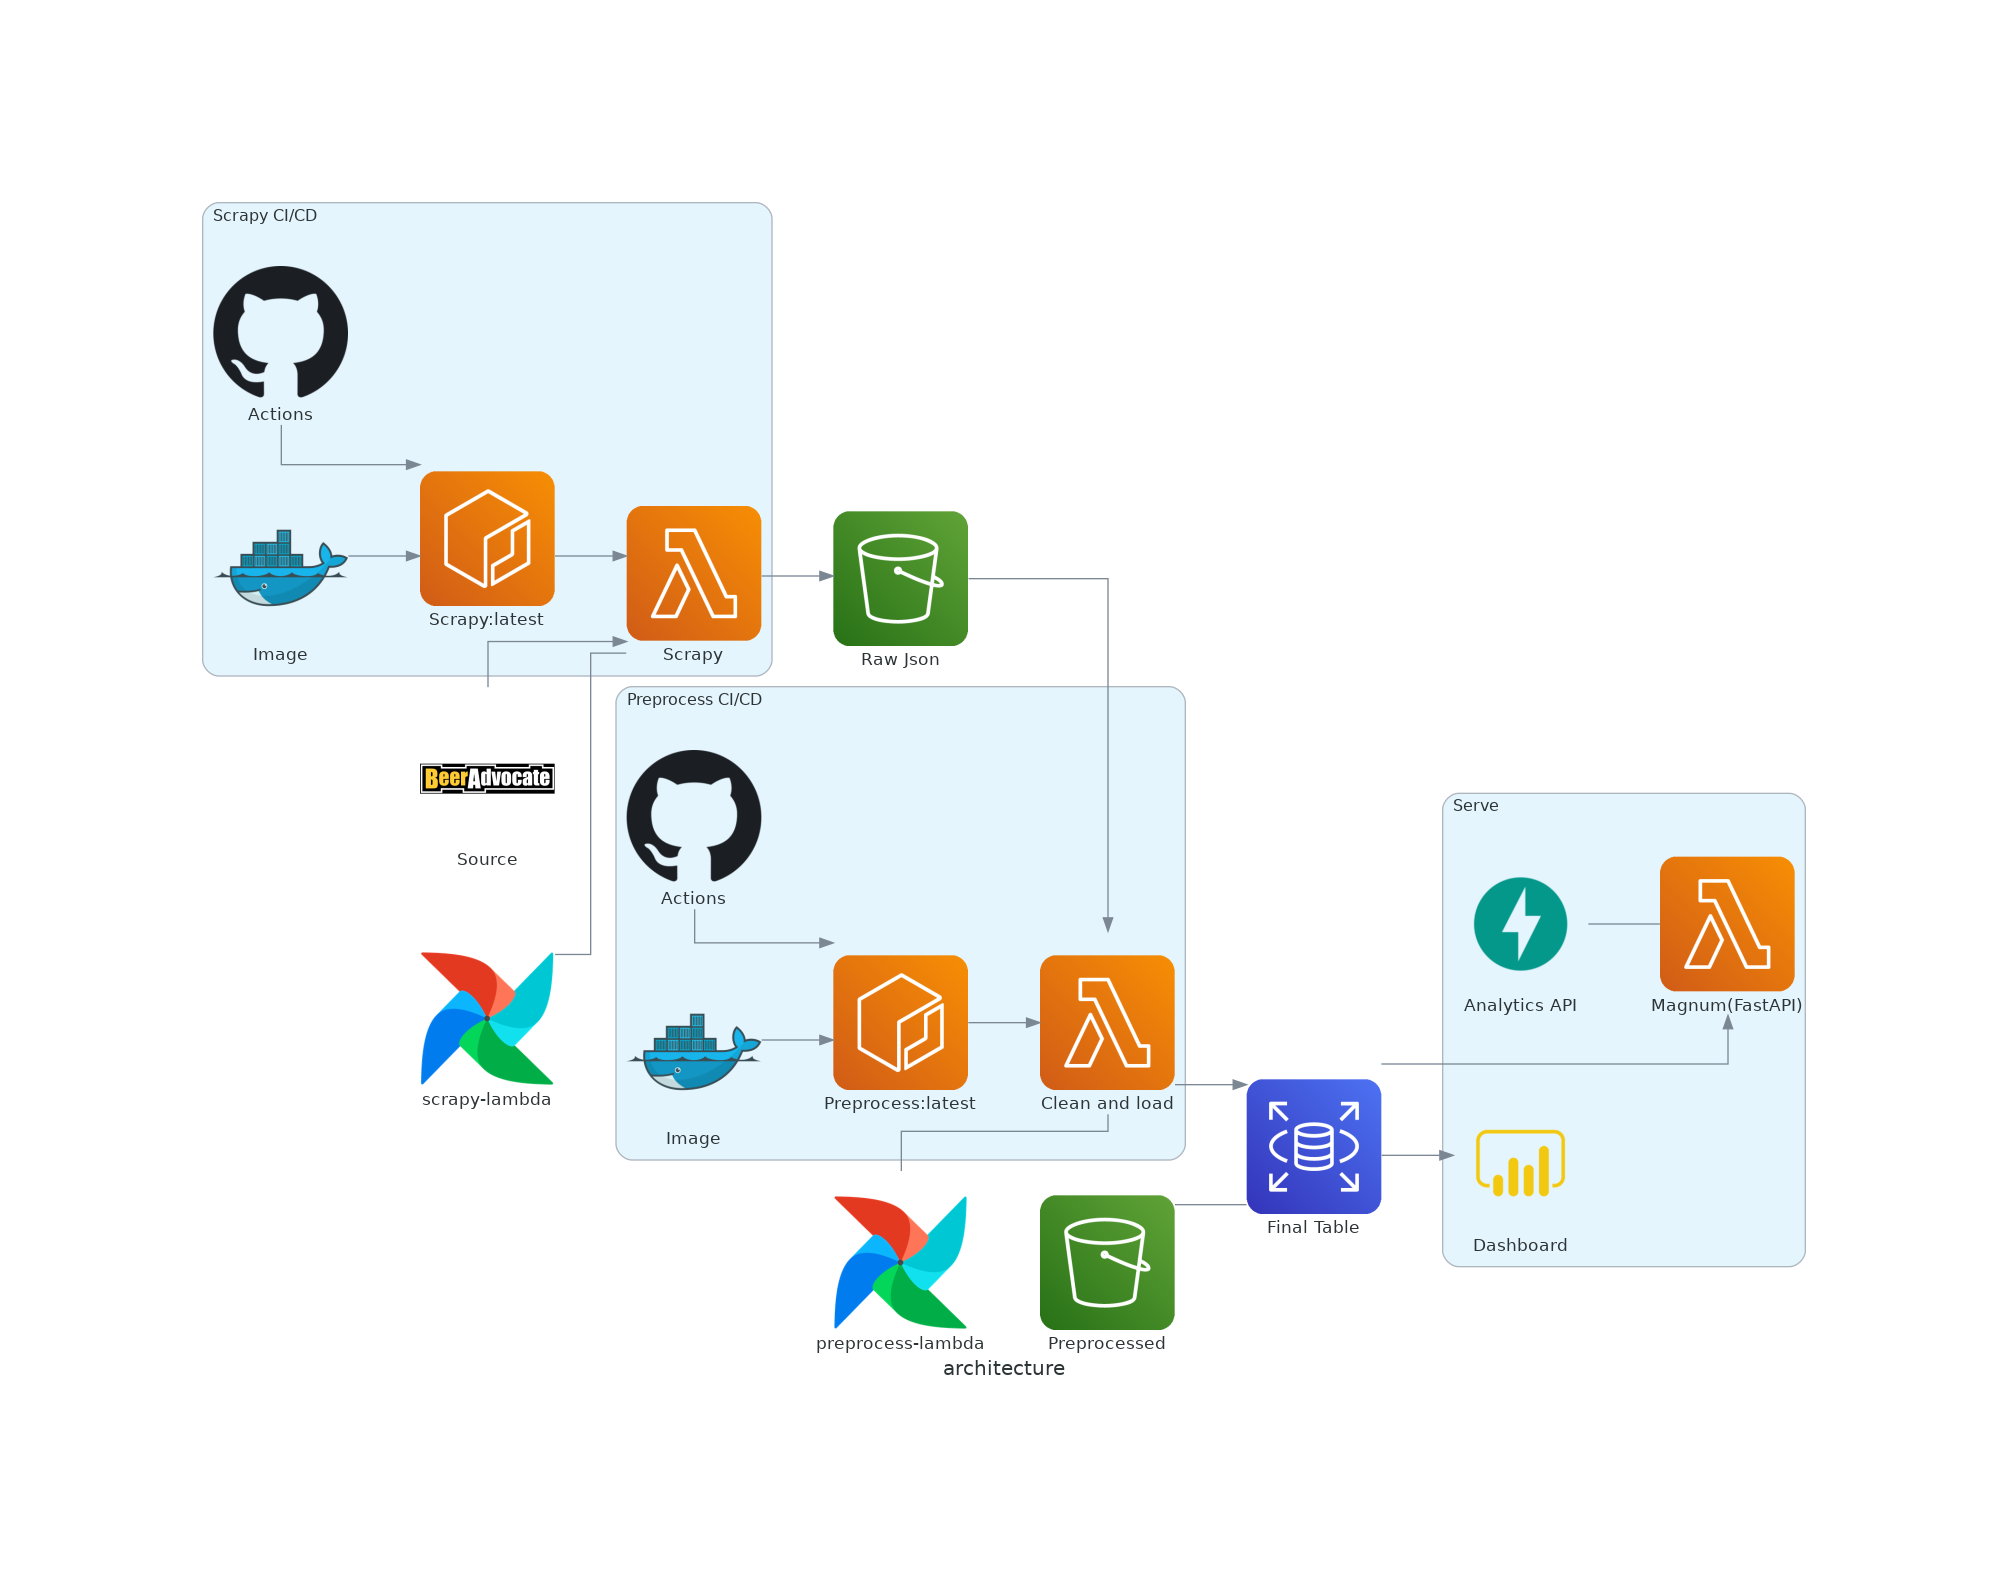
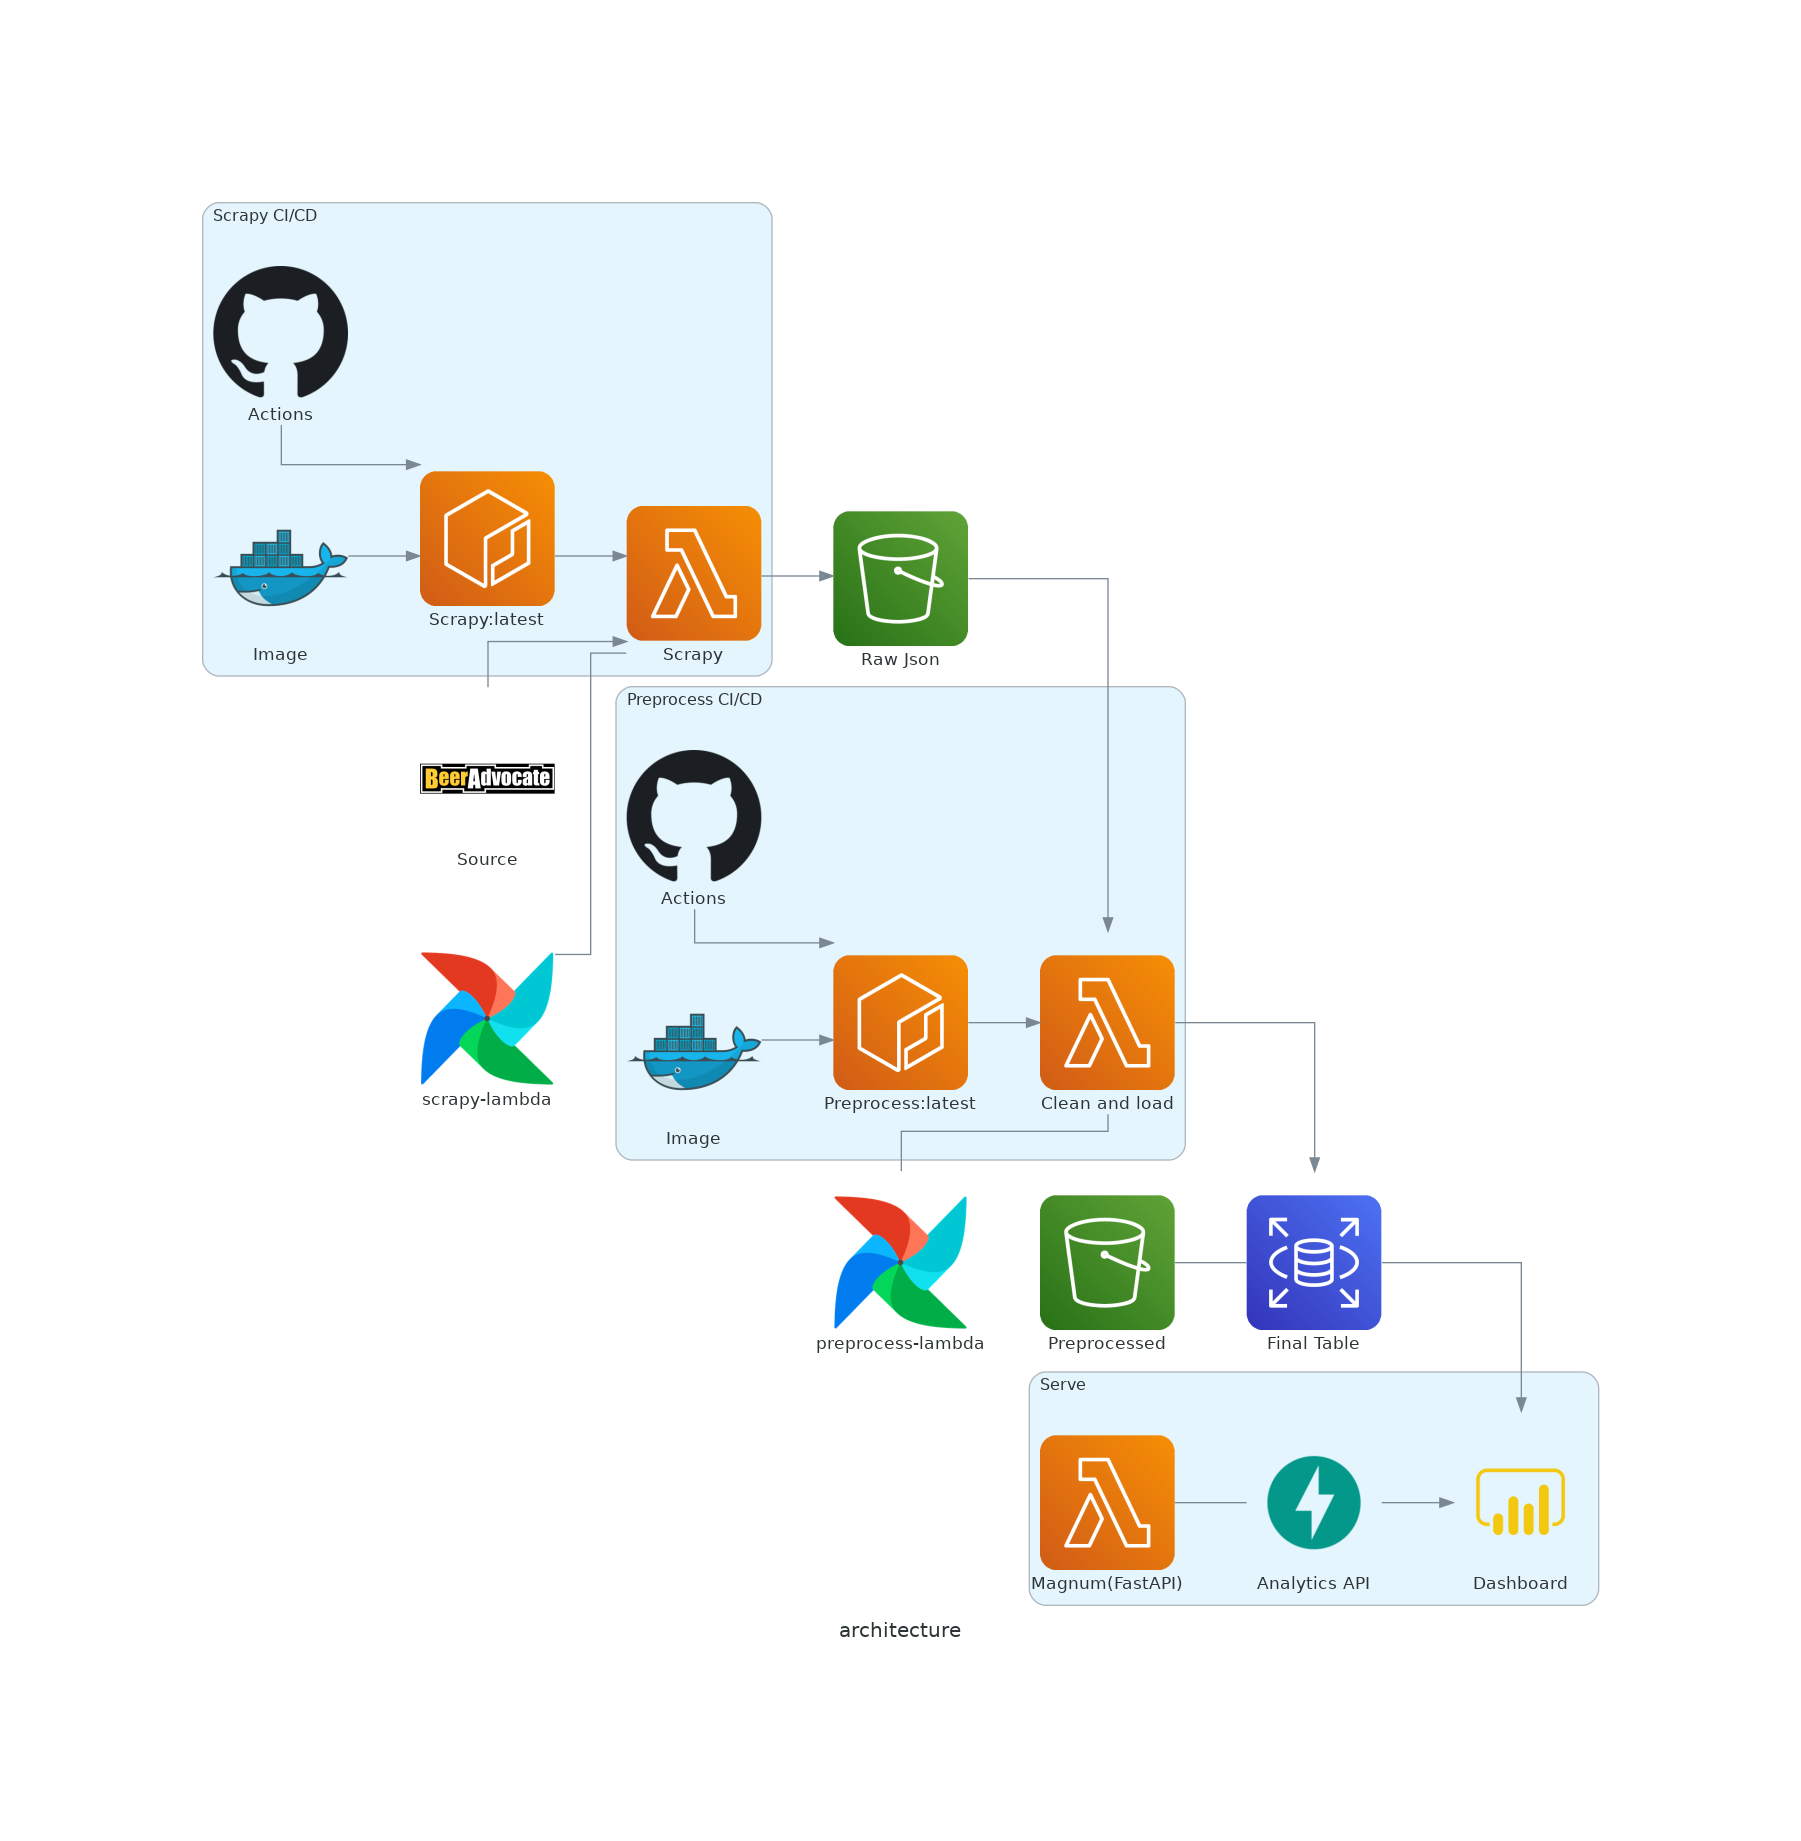
serving with api

Changed region(s): [[0.0933, 0.0931, 0.9017, 0.8999]]

diff --git a/dags/beer-pipeline.py b/dags/beer-pipeline.py
@@ -3,15 +3,18 @@ from airflow.providers.amazon.aws.operators.lambda_function import (
     LambdaInvokeFunctionOperator,
 )
 
+from airflow.providers.common.sql.operators.sql import SQLExecuteQueryOperator
+
 import boto3, json
+import pendulum
 from airflow import DAG
 from airflow.operators.bash_operator import BashOperator
 from datetime import datetime, timedelta
 from airflow.utils.dates import days_ago
 from airflow.operators.python_operator import PythonOperator
 
-
 default_args = {
+    "start_date": pendulum.datetime(2023, 11, 2, tz="UTC"),
     "owner": "jagos",
     "depends_on_past": False,
     "email": ["jagacnoob2@gmail.com"],
@@ -19,24 +22,72 @@ default_args = {
     "email_on_retry": False,
     "retries": 1,
     "retry_delay": timedelta(minutes=5),
+    "schedule_interval": "@daily",
 }
 
 with DAG(
     dag_id="beer-flow",
     default_args=default_args,
-    start_date=days_ago(1),
-    schedule_interval=timedelta(days=1),
 ) as dag:
-    invoke_lambda_function_1 = LambdaInvokeFunctionOperator(
-        task_id="scrapy", function_name="scrapy-lambda", invocation_type="Event"
+    # start scrapy
+    invoke_lambda_function_1: LambdaInvokeFunctionOperator = (
+        LambdaInvokeFunctionOperator(
+            task_id="scrapy", function_name="scrapy-lambda", invocation_type="Event"
+        )
+    )
+    # making sure that the file have time to be uploaded to s3
+    delay_bash_task_1: BashOperator = BashOperator(
+        task_id="delay_bash_task_1", bash_command="sleep 15s"
     )
 
-    invoke_lambda_function_2 = LambdaInvokeFunctionOperator(
-        task_id="process", function_name="preprocess-lambda", invocation_type="Event"
+    delay_bash_task_2: BashOperator = BashOperator(
+        task_id="delay_bash_task_2", bash_command="sleep 15s"
     )
 
-    delay_bash_task: BashOperator = BashOperator(
-        task_id="delay_bash_task", bash_command="sleep 15s"
+    # clean and load
+    invoke_lambda_function_2: LambdaInvokeFunctionOperator = (
+        LambdaInvokeFunctionOperator(
+            task_id="process",
+            function_name="preprocess-lambda",
+            invocation_type="Event",
+        )
     )
 
-    invoke_lambda_function_1 >> delay_bash_task >> invoke_lambda_function_2
+    create_final_table = SQLExecuteQueryOperator(
+        task_id="final_dataset",
+        sql="""create table if not exists final_table as (
+                select t1.last_updated,
+                    t1.beer_name,
+                    t1.brewer_name,
+                    t1.beer_style,
+                    t1.location,
+                    t1.percent_alcohol,
+                    t1.beer_avg_score,
+                    t1.avg_across_all,
+                    t1.beer_number_of_reviews,
+                    t1.number_of_ratings,
+                    t1.date_added,
+                    t1.number_of_wants,
+                    t1.number_of_gots,
+                    t1.status,
+                    t2.brewer_avg_beer_score,
+                    t2.number_of_beers,
+                    t2.avg_brewer_score,
+                    t2.brewer_number_of_reviews,
+                    t2.city,
+                    t2.establishment_type
+
+                    from  beers t1
+                    left join brewers t2
+                        on t1.brewer_name = t2.brewer_name);""",
+        conn_id="postgres_default",
+        autocommit=True,
+    )
+
+    (
+        invoke_lambda_function_1
+        >> delay_bash_task_1
+        >> invoke_lambda_function_2
+        >> delay_bash_task_2
+        >> create_final_table
+    )

diff --git a/preprocess-lambda/preprocess.py b/preprocess-lambda/preprocess.py
@@ -57,6 +57,20 @@ def apply_filter(data: list[dict]) -> list[dict]:
     return data
 
 
+def drop_tables() -> None:
+    with psycopg2.connect(
+        database="postgres",
+        user=rds_user,
+        password=rds_password,
+        host=rds_host,
+        port="5432",
+    ) as conn:
+        with conn.cursor() as cur:
+            cur.execute("""drop table if exists brewers""")
+            cur.execute("""drop table if exists beers""")
+            cur.execute("""drop table if exists final_table""")
+
+
 def dump_to_rds(data: list[dict], table: str) -> None:
     """Load to postgres
 
@@ -72,6 +86,38 @@ def dump_to_rds(data: list[dict], table: str) -> None:
         port="5432",
     ) as conn:
         with conn.cursor() as cur:
+            cur.execute(
+                f"""create table if not exists beers(
+                        last_updated text,
+                        beer_name text,
+                        brewer_name text,
+                        beer_style text,
+                        location text,
+                        percent_alcohol float,
+                        beer_avg_score float,
+                        avg_across_all float,
+                        beer_number_of_reviews int,
+                        number_of_ratings int,
+                        date_added text,
+                        number_of_wants int,
+                        number_of_gots int,
+                        status text
+                        );"""
+            )
+
+            cur.execute(
+                f"""create table if not exists brewers(
+                        last_updated text,
+                        brewer_name text,
+                        brewer_avg_beer_score float,
+                        number_of_beers int,
+                        avg_brewer_score float,
+                        brewer_number_of_reviews int,
+                        city text,
+                        establishment_type text
+                        );"""
+            )
+
             query_sql = f""" insert into {table}
                 select * from json_populate_recordset(NULL::{table}, %s) """
             cur.execute(query_sql, (json.dumps(data),))
@@ -114,6 +160,7 @@ class PreprocessBeers:
             Bucket=WRITE_BUCKET,
             Key="topnewbeer_" + datetime.today().strftime("%y%m%d") + ".json",
         )
+
         dump_to_rds(data, "beers")
 
 
@@ -155,6 +202,7 @@ class PreprocessBrewers:
 
 
 def main():
+    drop_tables()
     beer = PreprocessBeers()
     beer.start_preprocess()
 

diff --git a/serve/app.py b/serve/app.py
@@ -1,0 +1,51 @@
+from datetime import datetime
+from http import HTTPStatus
+from mangum import Mangum
+from fastapi import FastAPI, Request
+
+import sqlalchemy as db
+import os
+
+app = FastAPI(
+    title="BeerAPI",
+    description="Provides you with current beeradcocate's top new beers",
+    version="0.0.1",
+)
+handler = Mangum(app)
+
+
+rds_user = os.environ["rds_user"]
+rds_password = os.environ["rds_password"]
+rds_host = os.environ["rds_host"]
+
+
+@app.get("/")
+def _index(request: Request) -> dict:
+    """Health check"""
+    response = {
+        "message": HTTPStatus.OK.phrase,
+        "status-code": HTTPStatus.OK,
+        "data": {},
+    }
+    return response
+
+
+@app.get("/get-data")
+def _fetch_data(request: Request):
+    engine = db.create_engine(
+        f"postgresql://{rds_user}:{rds_password}@{rds_host}:5432/postgres"
+    )
+    con = engine.connect()
+    meta_data = db.MetaData()
+    meta_data.reflect(bind=engine)
+
+    final_table = meta_data.tables["final_table"]
+
+    query = db.select(final_table)
+    result = con.execute(query).fetchall()
+
+    return [dict(final_result._mapping) for final_result in result]
+
+
+
+
